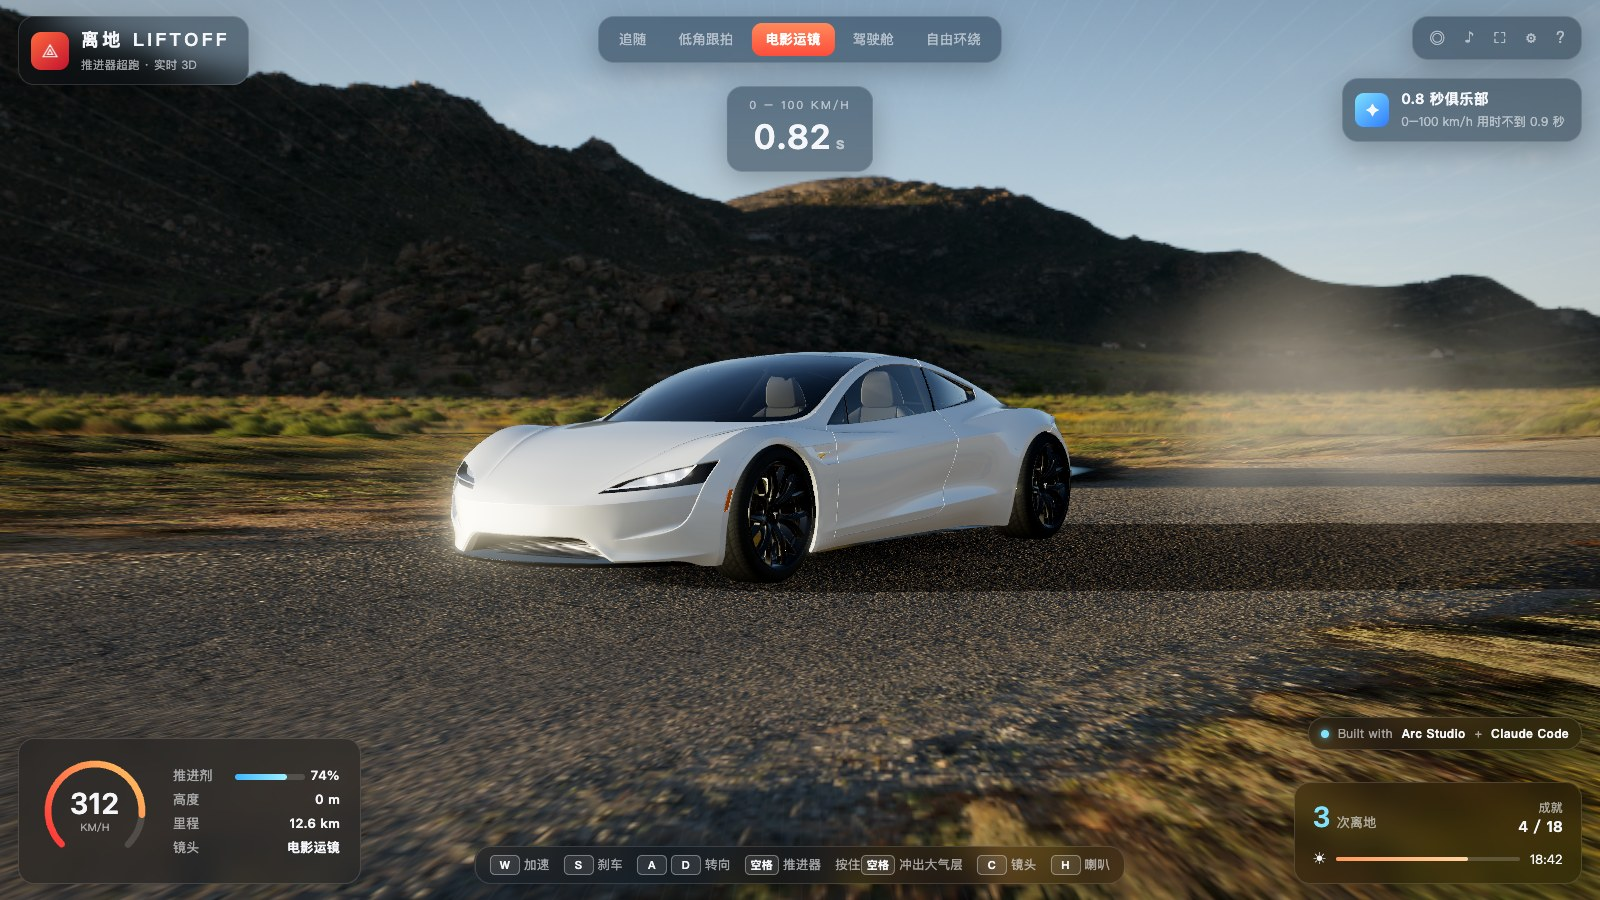
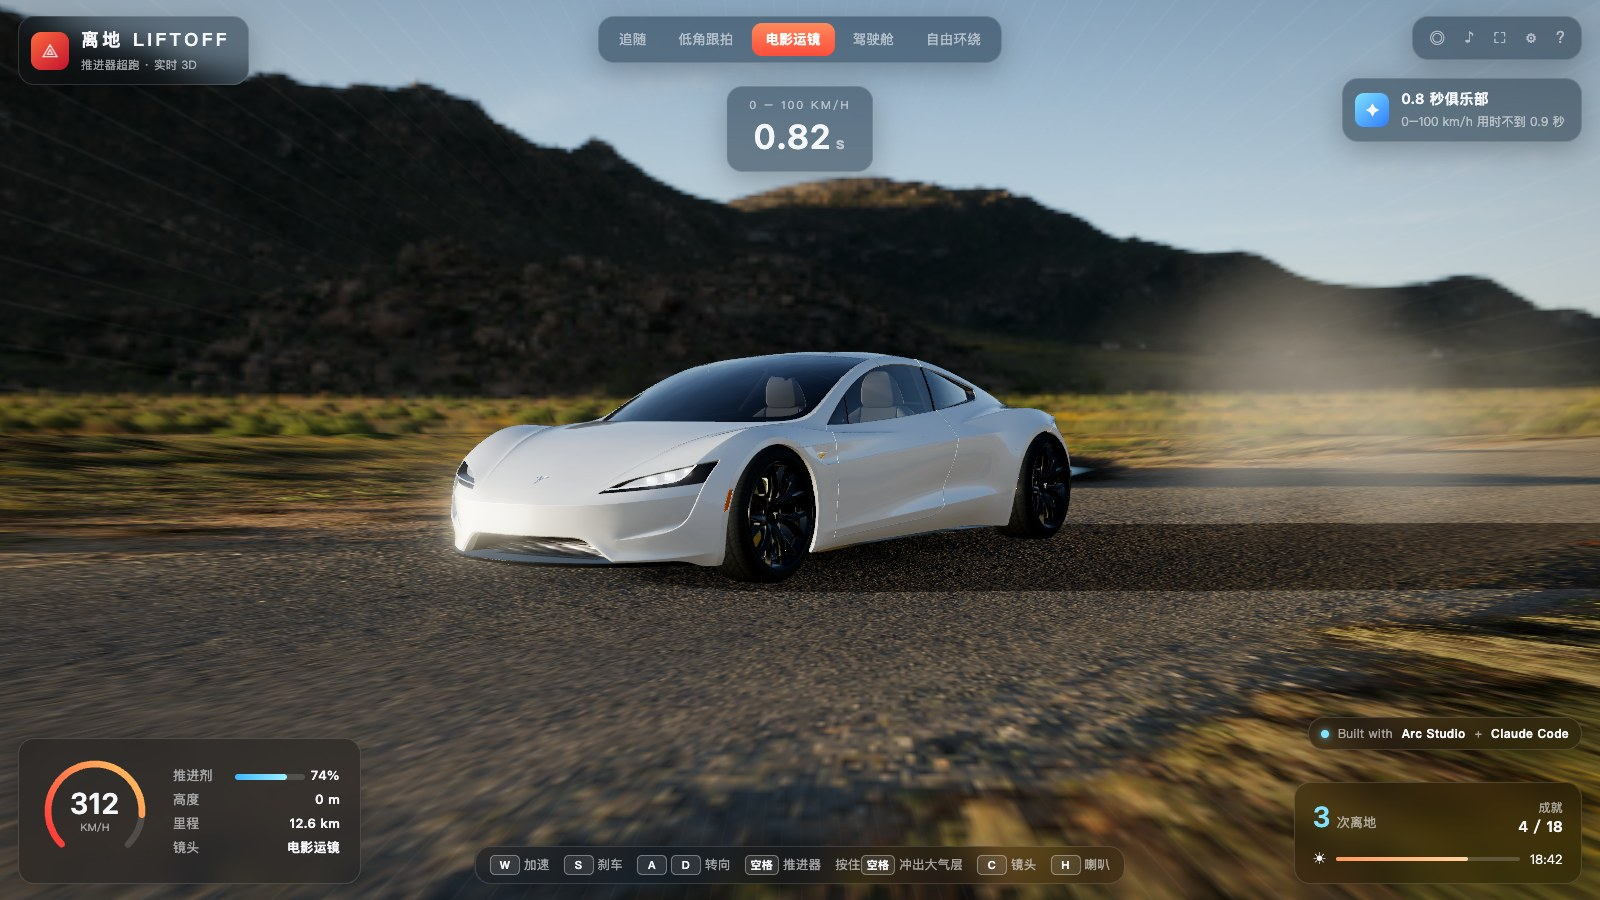
feat: 太空场景改用 NASA 高清卫星图与大气散射，恢复车标
- 地球：Blue Marble 2004-07（21600×10800）缩为 8K 全球底图，叠加东亚原图精度高清块，镜头对准中国东部沿海
- 云层改用柔和的云层贴图；大气层按视线掠过高度计算散射，地平线蓝白、晨昏处偏橙
- 太空光照改为太阳硬光 + 地球反照蓝色补光，车漆反射缩比地球
- 两辆车恢复车标，CREDITS.md 同步更新素材来源与非商业致敬声明

diff --git a/src/main.js b/src/main.js
@@ -35,7 +35,7 @@ const V = (x, y, z) => new THREE.Vector3(x, y, z);
 // 模型经 meshopt 压缩，加载器需要挂解码器
 const gltfLoader = () => new GLTFLoader().setMeshoptDecoder(MeshoptDecoder);
 
-// —— 车：加载、归一化尺寸、车头朝 -Z、黑白涂装、去标 ——
+// —— 车：加载、归一化尺寸、车头朝 -Z、黑白涂装 ——
 async function loadRoadster() {
   const gltf = await gltfLoader().loadAsync('/assets/models/roadster-2020.glb');
   const car = gltf.scene; car.updateMatrixWorld(true);
@@ -57,7 +57,6 @@ async function loadRoadster() {
     if (nm === 'car_main_paint') { o.material = new THREE.MeshPhysicalMaterial({ color: '#f4f4f2', metalness: 0, roughness: .22, clearcoat: 1, clearcoatRoughness: .02 }); }
     if (/Glass_Tint_max|Glass_mid_tint/.test(nm)) { o.material = new THREE.MeshPhysicalMaterial({ color: '#050608', metalness: .2, roughness: .02, clearcoat: 1, transparent: true, opacity: .93 }); }
     if (nm === 'calipers') o.material = new THREE.MeshStandardMaterial({ color: '#c9c9c9', metalness: .8, roughness: .35 });
-    if (nm === 'chrome' && Math.max(sz.x, sz.y, sz.z) < .35) o.visible = false;      // 车标
     if (/headlights|Glass_Clear/.test(nm)) { if (o.material.emissive) { o.material = o.material.clone(); o.material.emissive = new THREE.Color('#eaf3ff'); o.material.emissiveIntensity = 1.2; } }
     if (/rear_lights/.test(nm)) { o.material = o.material.clone(); o.material.emissive = new THREE.Color('#ff1020'); o.material.emissiveIntensity = 3; }
   });
@@ -117,43 +116,71 @@ async function main() {
     const sv = []; for (let i = 0; i < 7000; i++) { const v = V(rr() - .5, rr() - .5, rr() - .5).normalize().multiplyScalar(15000); sv.push(v.x, v.y, v.z); }
     const sg = new THREE.BufferGeometry(); sg.setAttribute('position', new THREE.Float32BufferAttribute(sv, 3));
     scene.add(new THREE.Points(sg, new THREE.PointsMaterial({ color: '#ffffff', size: 1.5, sizeAttenuation: false, transparent: true, opacity: .85 })));
-    const sunDir = V(-.55, .4, -.75).normalize();
-    const sun = new THREE.DirectionalLight('#fff6ea', 4); sun.position.copy(sunDir).multiplyScalar(60); sun.castShadow = true; sun.shadow.mapSize.set(4096, 4096); sun.shadow.bias = -.0002;
-    Object.assign(sun.shadow.camera, { left: -6, right: 6, top: 6, bottom: -6, near: 1, far: 200 }); scene.add(sun, sun.target);
-    scene.add(new THREE.HemisphereLight('#6a8fd8', '#0a0c14', .35));
-    const R = 6400, EC = V(1900, -R - 420, 2400);
-  // 地球：片元着色器实时生成大陆、海面高光、云层与晨昏线（近看不糊）
-  const GL3 = `
-  float h3(vec3 p){p=fract(p*.3183099+.1);p*=17.;return fract(p.x*p.y*p.z*(p.x+p.y+p.z));}
-  float n3(vec3 x){vec3 i=floor(x),f=fract(x);f=f*f*(3.-2.*f);return mix(mix(mix(h3(i),h3(i+vec3(1,0,0)),f.x),mix(h3(i+vec3(0,1,0)),h3(i+vec3(1,1,0)),f.x),f.y),mix(mix(h3(i+vec3(0,0,1)),h3(i+vec3(1,0,1)),f.x),mix(h3(i+vec3(0,1,1)),h3(i+vec3(1,1,1)),f.x),f.y),f.z);}
-  float fb(vec3 p){float s=0.,a=.5;for(int i=0;i<7;i++){s+=a*n3(p);p=p*2.03+vec3(1.7,9.2,3.1);a*=.5;}return s;}`;
-  const tl = new THREE.TextureLoader(); const day = await tl.loadAsync('/assets/earth/earth_day_4096.jpg'), brc = await tl.loadAsync('/assets/earth/earth_bump_roughness_clouds_4096.jpg'), night = await tl.loadAsync('/assets/earth/earth_night_4096.jpg');
-  day.colorSpace = night.colorSpace = THREE.SRGBColorSpace; [day, brc, night].forEach(x => x.anisotropy = 16);
-  const earth = new THREE.Mesh(new THREE.SphereGeometry(R, 256, 160), new THREE.ShaderMaterial({ uniforms: { sd: { value: sunDir }, day: { value: day }, brc: { value: brc }, night: { value: night } },
-    vertexShader: 'varying vec2 vUv; varying vec3 vN, vW; void main(){ vUv=uv; vN=normalize(mat3(modelMatrix)*normal); vec4 w=modelMatrix*vec4(position,1.); vW=w.xyz; gl_Position=projectionMatrix*viewMatrix*w; }',
-    fragmentShader: `uniform vec3 sd; uniform sampler2D day, brc, night; varying vec2 vUv; varying vec3 vN, vW;
-      void main(){
-        vec3 N=normalize(vN), Vd=normalize(cameraPosition-vW); float nd=dot(N,sd), dif=max(nd,0.);
-        vec3 c=texture2D(day,vUv).rgb; vec4 b=texture2D(brc,vUv); float cl=smoothstep(.15,.9,b.b), ocean=1.-smoothstep(.2,.5,b.g);
-        vec3 col=c*dif*1.5;
-        col+=pow(max(dot(reflect(-sd,N),Vd),0.),80.)*ocean*(1.-cl)*vec3(1.,.92,.8)*1.4;
-        col=mix(col,vec3(1.)*(dif*1.45+.01),cl*.92);
-        col+=texture2D(night,vUv).rgb*vec3(1.,.8,.55)*smoothstep(.05,-.2,nd)*(1.-cl)*1.6;
-        col+=vec3(.9,.4,.15)*smoothstep(-.2,0.,nd)*smoothstep(.2,0.,nd)*.18;
-        float rim=pow(1.-max(dot(N,Vd),0.),3.); col+=vec3(.25,.5,1.)*rim*smoothstep(-.2,.3,nd)*1.3;
-        gl_FragColor=vec4(col,1.);
-        #include <colorspace_fragment>
-      }` }));
-  earth.position.copy(EC); earth.rotation.set(.35, 3.6, .1); scene.add(earth);
-  const atm = new THREE.Mesh(new THREE.SphereGeometry(R * 1.025, 160, 120), new THREE.ShaderMaterial({ transparent: true, depthWrite: false, side: THREE.BackSide, blending: THREE.AdditiveBlending, uniforms: { sd: { value: sunDir } },
-    vertexShader: 'varying vec3 vN, vW; void main(){ vN=normalize(mat3(modelMatrix)*normal); vec4 w=modelMatrix*vec4(position,1.); vW=w.xyz; gl_Position=projectionMatrix*viewMatrix*w; }',
-    fragmentShader: 'uniform vec3 sd; varying vec3 vN, vW; void main(){ vec3 v=normalize(cameraPosition-vW); float rim=pow(1.-abs(dot(vN,v)),4.); float day=clamp(dot(-vN,sd)*.8+.45,0.,1.); gl_FragColor=vec4(vec3(.3,.55,1.)*rim*day*1.6,1.); }' }));
-  atm.position.copy(EC); scene.add(atm);
-    // 车的反射环境：用地球 + 星空的简易环境
-    const pm = new THREE.PMREMGenerator(renderer); const envS = new THREE.Scene(); envS.background = new THREE.Color('#020308');
-    const eb = new THREE.Mesh(new THREE.SphereGeometry(50, 32, 16, 0, Math.PI * 2, Math.PI * .55, Math.PI * .45), new THREE.MeshBasicMaterial({ color: '#2a5a9a', side: THREE.BackSide })); envS.add(eb);
-    const sb = new THREE.Mesh(new THREE.SphereGeometry(4, 16, 8), new THREE.MeshBasicMaterial({ color: new THREE.Color(30, 28, 25) })); sb.position.copy(sunDir).multiplyScalar(45); envS.add(sb);
-    scene.environment = pm.fromScene(envS, .02).texture;
+    // 光照：太阳硬光 + 地球反照的蓝色补光，背光面接近全黑（真实太空光照）
+    const sunDir = V(-.62, .34, -.71).normalize();
+    const sun = new THREE.DirectionalLight('#fff8ef', 5.2); sun.position.copy(sunDir).multiplyScalar(60); sun.castShadow = true; sun.shadow.mapSize.set(4096, 4096); sun.shadow.bias = -.0002;
+    Object.assign(sun.shadow.camera, { left: -8, right: 8, top: 8, bottom: -8, near: 1, far: 200 }); scene.add(sun, sun.target);
+    const R = 6400, RA = R * 1.028, EC = V(2600, -R - 900, 3400);
+    const earthshine = new THREE.DirectionalLight('#6f9cff', .7); earthshine.position.copy(EC).normalize().multiplyScalar(60); scene.add(earthshine);
+    scene.add(new THREE.AmbientLight('#1a2030', .25));
+    // 地球：NASA Blue Marble（公有领域）8K 全球 + 东亚 21600 级高清补丁 + 柔和云层（三通道贴图的 B 通道）+ 夜景灯光
+    const tl = new THREE.TextureLoader();
+    const [surf, patch, clouds, night] = await Promise.all(['bm_surface_8k.jpg', 'bm_patch_eastasia.jpg', 'earth_bump_roughness_clouds_4096.jpg', 'earth_night_4096.jpg'].map(f => tl.loadAsync('/assets/earth/' + f)));
+    surf.colorSpace = patch.colorSpace = night.colorSpace = THREE.SRGBColorSpace;
+    [surf, patch, clouds, night].forEach(x => { x.anisotropy = renderer.capabilities.getMaxAnisotropy(); });
+    const earth = new THREE.Mesh(new THREE.SphereGeometry(R, 320, 200), new THREE.ShaderMaterial({
+      uniforms: { sd: { value: sunDir }, surf: { value: surf }, hdp: { value: patch }, clouds: { value: clouds }, night: { value: night }, pb: { value: new THREE.Vector4(70, 150, 0, 55) } },
+      vertexShader: 'varying vec2 vUv; varying vec3 vN, vW; void main(){ vUv=uv; vN=normalize(mat3(modelMatrix)*normal); vec4 w=modelMatrix*vec4(position,1.); vW=w.xyz; gl_Position=projectionMatrix*viewMatrix*w; }',
+      fragmentShader: `uniform vec3 sd; uniform sampler2D surf, hdp, clouds, night; uniform vec4 pb; varying vec2 vUv; varying vec3 vN, vW;
+        void main(){
+          float lon=vUv.x*360.-180., lat=(vUv.y-.5)*180.;
+          vec3 c=texture2D(surf,vUv).rgb;
+          vec2 pu=vec2((lon-pb.x)/(pb.y-pb.x),(lat-pb.z)/(pb.w-pb.z));
+          if(pu.x>0.&&pu.x<1.&&pu.y>0.&&pu.y<1.){ float e=min(min(pu.x,1.-pu.x),min(pu.y,1.-pu.y)); c=mix(c,texture2D(hdp,pu).rgb,smoothstep(0.,.04,e)); }
+          float cl=smoothstep(.12,.95,texture2D(clouds,vUv).b)*.9;
+          vec3 N=normalize(vN), Vd=normalize(cameraPosition-vW); float nd=dot(N,sd), dif=max(nd,0.);
+          float ocean=smoothstep(.02,.12,c.b-c.r)*(1.-smoothstep(.22,.38,max(c.r,c.g)));
+          vec3 col=c*dif*1.7;
+          col+=pow(max(dot(reflect(-sd,N),Vd),0.),140.)*ocean*(1.-cl)*vec3(1.,.93,.82)*2.2;
+          col=mix(col,vec3(.97,.98,1.)*(dif*1.55+.004),cl);
+          col+=texture2D(night,vUv).rgb*vec3(1.,.78,.5)*smoothstep(.04,-.18,nd)*(1.-cl*.8)*1.2;
+          float mu=max(dot(N,Vd),0.), haze=pow(1.-mu,2.4);
+          col=mix(col,vec3(.32,.58,1.)*(dif*1.2+.03),haze*.55*smoothstep(-.3,.25,nd));
+          col+=vec3(1.,.42,.14)*smoothstep(-.18,0.,nd)*smoothstep(.18,0.,nd)*.22;
+          col=col*vec3(.92,.96,1.)+vec3(.0,.01,.03)*dif;
+          gl_FragColor=vec4(col,1.);
+          #include <colorspace_fragment>
+        }` }));
+    // 让东亚（东经 115°、北纬 32°）朝向镜头前方，且北方大致朝上
+    const ll = (lo, la) => { const ph = (lo + 180) / 360 * Math.PI * 2, th = (90 - la) * Math.PI / 180; return V(-Math.cos(ph) * Math.sin(th), Math.cos(th), Math.sin(ph) * Math.sin(th)); };
+    const camP = V(-6.4, 1.9, -8.2), look = V(2.4, -.2, 2.6).sub(camP).normalize();
+    const target = camP.clone().add(look.multiplyScalar(5200)).sub(EC).normalize();
+    const q1 = new THREE.Quaternion().setFromUnitVectors(ll(124, 24), target);
+    const n1 = V(0, 1, 0).applyQuaternion(q1).projectOnPlane(target).normalize(), up = V(0, 1, 0).projectOnPlane(target).normalize();
+    const ang = Math.atan2(V().crossVectors(n1, up).dot(target), n1.dot(up));
+    earth.quaternion.copy(new THREE.Quaternion().setFromAxisAngle(target, ang).multiply(q1));
+    earth.position.copy(EC); scene.add(earth);
+    // 大气层：按视线掠过大气的最低高度计算散射亮度，地平线处蓝白、晨昏处偏橙
+    const atm = new THREE.Mesh(new THREE.SphereGeometry(RA, 200, 140), new THREE.ShaderMaterial({ transparent: true, depthWrite: false, side: THREE.BackSide, blending: THREE.AdditiveBlending,
+      uniforms: { sd: { value: sunDir }, ec: { value: EC }, r0: { value: R }, r1: { value: RA } },
+      vertexShader: 'varying vec3 vW; void main(){ vec4 w=modelMatrix*vec4(position,1.); vW=w.xyz; gl_Position=projectionMatrix*viewMatrix*w; }',
+      fragmentShader: `uniform vec3 sd, ec; uniform float r0, r1; varying vec3 vW;
+        void main(){
+          vec3 rd=normalize(vW-cameraPosition), oc=ec-cameraPosition; float tc=dot(oc,rd); vec3 P=cameraPosition+rd*tc; float h=length(P-ec);
+          if(h<r0) discard;
+          float alt=(h-r0)/(r1-r0); float dens=exp(-alt*5.5)*(1.-smoothstep(.85,1.,alt));
+          vec3 n=normalize(P-ec); float l=dot(n,sd); float lit=smoothstep(-.28,.3,l);
+          vec3 col=mix(vec3(1.,.45,.16),vec3(.3,.56,1.),smoothstep(-.05,.35,l));
+          col=mix(col,vec3(.85,.93,1.),exp(-alt*14.)*.5);
+          gl_FragColor=vec4(col*dens*lit*1.9,1.);
+        }` }));
+    atm.position.copy(EC); scene.add(atm);
+    // 车的反射环境：缩比地球 + 太阳，让车漆倒映出蓝色地球
+    const pm = new THREE.PMREMGenerator(renderer); const envS = new THREE.Scene(); envS.background = new THREE.Color('#000');
+    const k = 60 / EC.length(); const eRep = new THREE.Mesh(new THREE.SphereGeometry(R * k, 64, 48), new THREE.MeshBasicMaterial({ map: surf, color: new THREE.Color(.75, .82, 1) }));
+    eRep.quaternion.copy(earth.quaternion); eRep.position.copy(EC).multiplyScalar(k); envS.add(eRep);
+    const sb = new THREE.Mesh(new THREE.SphereGeometry(2.5, 16, 8), new THREE.MeshBasicMaterial({ color: new THREE.Color(40, 38, 34) })); sb.position.copy(sunDir).multiplyScalar(55); envS.add(sb);
+    scene.environment = pm.fromScene(envS, .01).texture; scene.environmentIntensity = .8;
     car = await loadRoadster(); scene.add(car); car.rotation.set(.04, car.rotation.y - .15, .08);
     // —— 2008 年的老前辈（CC-BY，the_86_guy）+ 驾驶座上的太空人 ——
     const og = await gltfLoader().loadAsync('/assets/models/roadster-2008.glb');
@@ -165,7 +192,6 @@ async function main() {
     let hl = V(), hn = 0; inner.traverse(o => { if (o.isMesh && /Projector_lights|Headllight_case/.test(o.material.name)) { hl.add(new THREE.Box3().setFromObject(o).getCenter(V())); hn++; } });
     if (hn && hl.divideScalar(hn).z > 0) inner.rotation.y += Math.PI;
     inner.traverse(o => { if (!o.isMesh) return; o.castShadow = o.receiveShadow = true; const nm = o.material.name;
-      if (/Tesla_logo|Tesla_text|Symbol/.test(nm)) o.visible = false;
       if (nm === 'Paint') o.material = new THREE.MeshPhysicalMaterial({ color: '#8c0a12', metalness: .2, roughness: .3, clearcoat: 1, clearcoatRoughness: .04 }); });
     inner.updateMatrixWorld(true); const ib = new THREE.Box3().setFromObject(inner);
     // 太空人：白色宇航服、头盔、深色面罩；左臂搭在车门上，右手握方向盘

diff --git a/CREDITS.md b/CREDITS.md
@@ -6,15 +6,16 @@
 
 | 文件 | 素材 | 作者 | 授权 | 改动 |
 | --- | --- | --- | --- | --- |
-| `public/assets/models/roadster-2020.glb` | [Tesla Roadster 2020](https://sketchfab.com/3d-models/tesla-roadster-2020-1fbf29e297bd4a17ac39a00a378441d8)（经 [AbduSalam08/3dModel-Tesla-Roadster](https://github.com/AbduSalam08/3dModel-Tesla-Roadster) 获取） | [metarex.4d](https://sketchfab.com/metarex.4d) | [CC BY 4.0](http://creativecommons.org/licenses/by/4.0/) | meshopt 压缩、贴图转 WebP（1024）；运行时改为黑白涂装并隐藏车标 |
-| `public/assets/models/roadster-2008.glb` | [2008 Tesla Roadster](https://sketchfab.com/3d-models/2008-tesla-roadster-317dabbe5e824948a92091f7bd39c2de) | [the_86_guy](https://sketchfab.com/the_86_guy) | [CC BY 4.0](http://creativecommons.org/licenses/by/4.0/) | meshopt 压缩、贴图转 WebP（1024）；运行时隐藏车标 |
+| `public/assets/models/roadster-2020.glb` | [Tesla Roadster 2020](https://sketchfab.com/3d-models/tesla-roadster-2020-1fbf29e297bd4a17ac39a00a378441d8)（经 [AbduSalam08/3dModel-Tesla-Roadster](https://github.com/AbduSalam08/3dModel-Tesla-Roadster) 获取） | [metarex.4d](https://sketchfab.com/metarex.4d) | [CC BY 4.0](http://creativecommons.org/licenses/by/4.0/) | meshopt 压缩、贴图转 WebP（1024）；运行时改为黑白涂装 |
+| `public/assets/models/roadster-2008.glb` | [2008 Tesla Roadster](https://sketchfab.com/3d-models/2008-tesla-roadster-317dabbe5e824948a92091f7bd39c2de) | [the_86_guy](https://sketchfab.com/the_86_guy) | [CC BY 4.0](http://creativecommons.org/licenses/by/4.0/) | meshopt 压缩、贴图转 WebP（1024） |
 
 ## 环境与贴图
 
 | 文件 | 素材 | 来源 | 授权 |
 | --- | --- | --- | --- |
 | `public/assets/hdri/goegap_road_2k.hdr` | Goegap Road | [Poly Haven](https://polyhaven.com/a/goegap_road) | CC0 |
-| `public/assets/earth/*.jpg` | 地球日间、夜间、凹凸/粗糙度/云层贴图 | [three.js 示例贴图](https://github.com/mrdoob/three.js/tree/dev/examples/textures/planets)，源自 NASA 公开影像 | 见 three.js 仓库说明；NASA 影像为公有领域 |
+| `public/assets/earth/bm_surface_8k.jpg`、`bm_patch_eastasia.jpg` | Blue Marble Next Generation（2004 年 7 月，地形与海底地形版，21600×10800），缩放为 8K 全球图并裁出东亚高清块 | [NASA Earth Observatory](https://science.nasa.gov/earth/earth-observatory/blue-marble-next-generation/base-topography-bathymetry) | NASA 影像，公有领域 |
+| `public/assets/earth/earth_bump_roughness_clouds_4096.jpg`、`earth_night_4096.jpg` | 云层、夜间灯光贴图 | [three.js 示例贴图](https://github.com/mrdoob/three.js/tree/dev/examples/textures/planets)，源自 NASA 公开影像 | 见 three.js 仓库说明；NASA 影像为公有领域 |
 
 ## 开源库
 
@@ -25,4 +26,4 @@
 
 ## 声明
 
-本项目是独立的粉丝致敬作品，与 Tesla、SpaceX 无任何关联，也未获其认可或赞助。车型外观归其权利人所有，画面中不使用其商标与车标。如权利人提出异议，将及时调整或下架。
+本项目是独立的非商业粉丝致敬作品，与 Tesla、SpaceX 无任何关联，也未获其认可或赞助。车型外观、商标与车标归其权利人所有，仅用于致敬展示。如权利人提出异议，将及时调整或下架。
